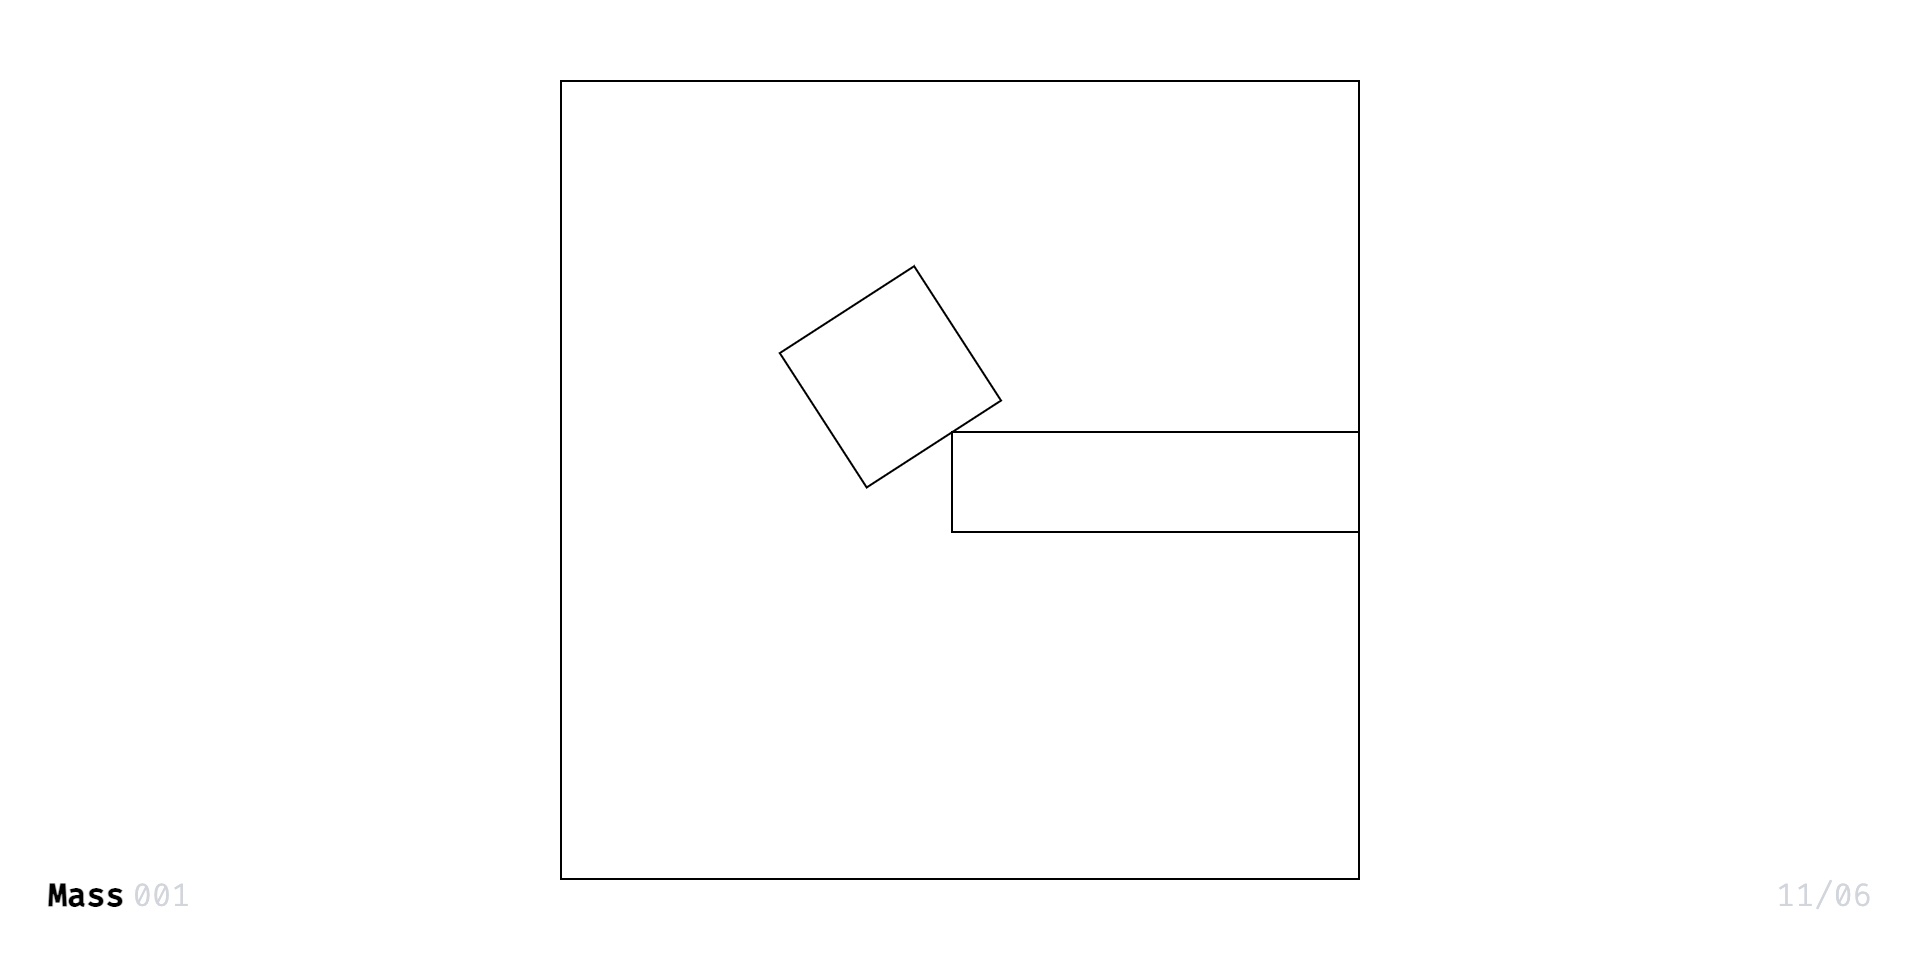
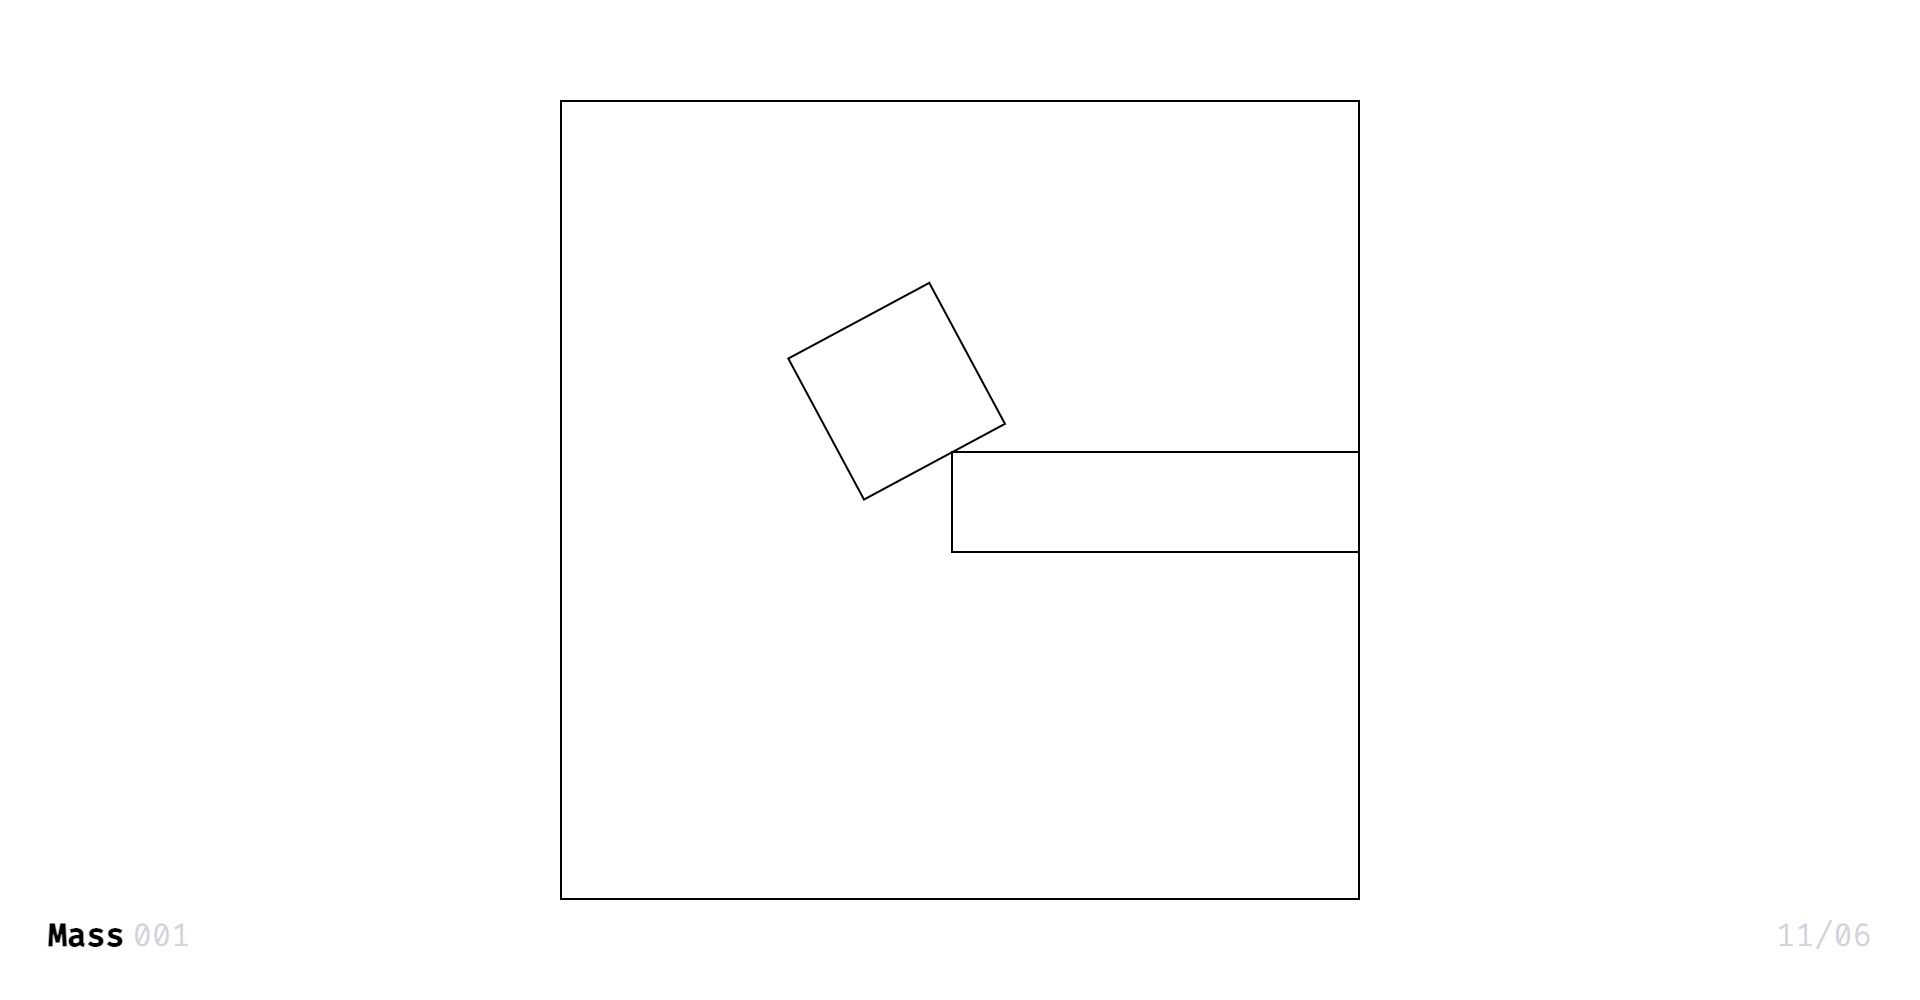
chore: update

diff --git a/scripts/screenshot.ts b/scripts/screenshot.ts
@@ -5,7 +5,7 @@ async function run() {
   const context = await browser.newContext({
     viewport: {
       width: 960,
-      height: 480,
+      height: 500,
     },
     deviceScaleFactor: 2,
   })
